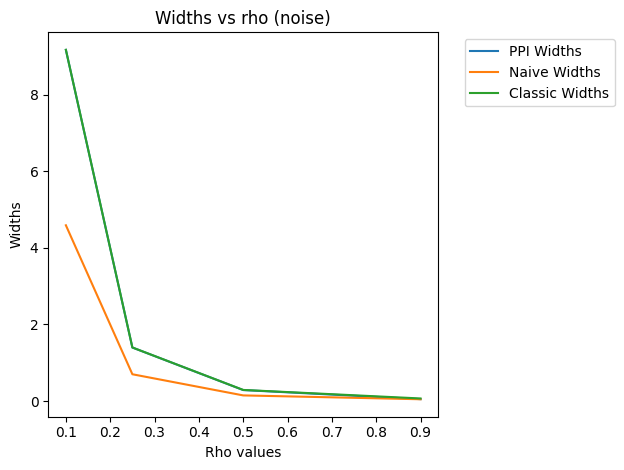
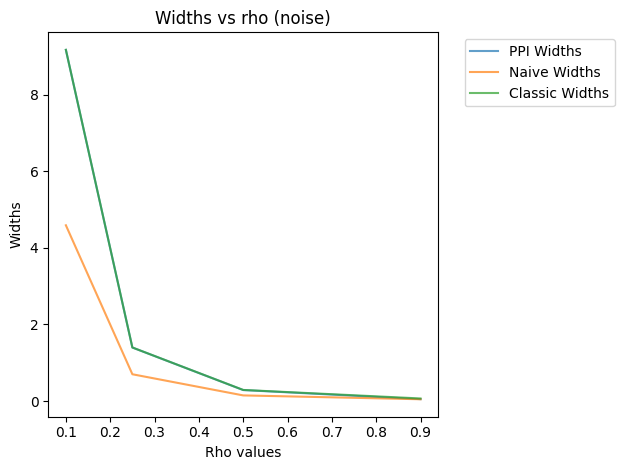
updated plotting to be able to plot from raw data

diff --git a/src/plotting.py b/src/plotting.py
@@ -2,6 +2,7 @@ import pandas as pd
 import matplotlib.pyplot as plt
 import yaml
 import os
+import numpy as np
 
 def line_plot(data, plot_config, config, x=None):
     """
@@ -23,8 +24,19 @@ def line_plot(data, plot_config, config, x=None):
         for tech in plot_config['y_techniques']:
             # create a df with only the data for the technique
             tech_data = data[data['technique'] == tech['technique']]
-            plt.plot(tech_data[x], tech_data[plot_config.get('y_metric', None)], label=tech['label'])
-            
+            x_values = config['experiment']['ind_var']['vals']
+            ind_var = config['experiment']['ind_var']['name']
+            y_means = []
+            y_lower_percentiles = []
+            y_upper_percentiles = []
+            for x_val in x_values:
+                y_series = tech_data.loc[tech_data[ind_var] == x_val, plot_config['y_metric']]
+                y_means.append(np.mean(y_series))
+                y_lower_percentiles.append(np.percentile(y_series, 10))
+                y_upper_percentiles.append(np.percentile(y_series, 90))
+            plt.plot(tech_data[x], y_means, label=tech['label'], alpha=0.7)
+            plt.fill_between(x_values, y_lower_percentiles, y_upper_percentiles, alpha=0.2)
+
 
     # Add labels and title
     plt.xlabel(plot_config['x_label'])
@@ -71,8 +83,7 @@ def plot_results(data, config):
     summary:
     plot the results
     """
-    plot_config = config['plotting']
-    for plot in plot_config['plots']:
+    for plot in config['plotting']['plots']:
         if plot['type'] == 'line':
             line_plot(data, plot, config)
         elif plot['type'] == 'violin':

diff --git a/src/main.py b/src/main.py
@@ -18,7 +18,7 @@ import logging
 import shutil
 
 import ppi
-from plotting import plot_data
+from plotting import plot_results
 
 
 # colored text
@@ -151,7 +151,7 @@ def main(config: dict):
 
     results.to_csv(os.path.join(config['paths']['results_path'], 'results.csv'))
 
-    plot_data(results, config)
+    plot_results(results, config)
     
     return
 
